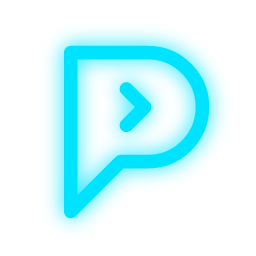
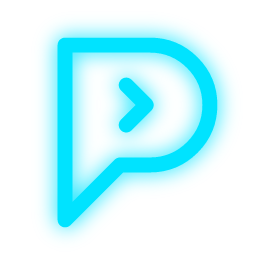
Initial release of the prompt-highlighter extension for VS Code, featuring syntax support for .prompt files, a new TextMate grammar, language configuration, and updated branding. Added a Makefile for build and publish tasks, and enhanced package.json with improved metadata and homepage links.

diff --git a/utils/vscode_prompt/CHANGELOG.md b/utils/vscode_prompt/CHANGELOG.md
@@ -1,9 +1,14 @@
 # Change Log
 
-All notable changes to the "prompt" extension will be documented in this file.
+All notable changes to the "prompt-highlighter" extension are documented here.
 
-Check [Keep a Changelog](http://keepachangelog.com/) for recommendations on how to structure this file.
+This project follows the guidelines from [Keep a Changelog](https://keepachangelog.com/en/1.1.0/) and aims to use [Semantic Versioning](https://semver.org/).
 
-## [Unreleased]
+## [0.0.1] - 2025-09-09
 
-- Initial release
+### Added
+- Initial release of Prompt Driven Development syntax support.
+- TextMate grammar for `.prompt` files (syntax highlighting).
+- Language configuration (comments, brackets, editor behaviors).
+- Extension icon and basic branding.
+- README and quickstart documentation.
